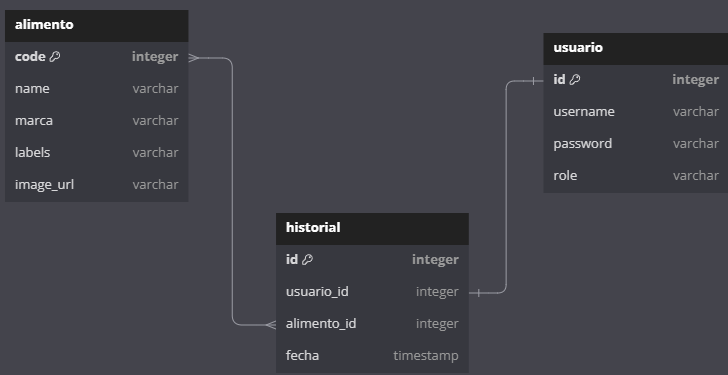
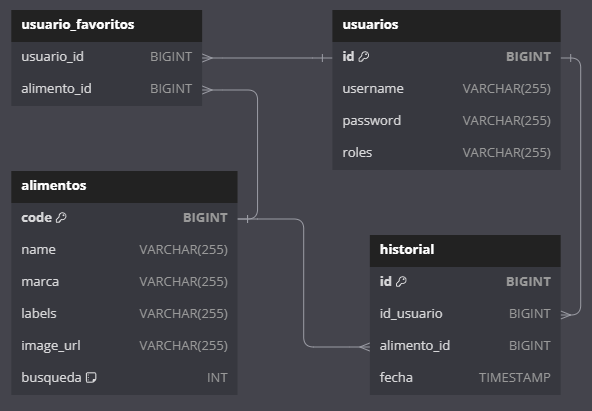
errores y cambios realizados, ahora si para entregar

diff --git a/src/main/kotlin/com/example/proyectoAPISegura/service/AlimentoService.kt b/src/main/kotlin/com/example/proyectoAPISegura/service/AlimentoService.kt
@@ -43,7 +43,7 @@ class AlimentoService {
     }
 
     fun insertAlimento(alimento: Alimento):Optional<Alimento> {
-        if (alimento.name.isBlank() && alimento.marca.isBlank() && alimento.labels.isBlank()) {
+        if (alimento.name.isBlank() || alimento.marca.isBlank() || alimento.labels.isBlank()) {
             throw BadRequestException("El nombre, la marca y las etiquetas no pueden estar vacías")
         }
 
@@ -61,7 +61,7 @@ class AlimentoService {
             throw BadRequestException("No existe este alimento")
         }
 
-        if (alimento.name.isBlank() && alimento.marca.isBlank() && alimento.labels.isBlank()) {
+        if (alimento.name.isBlank() || alimento.marca.isBlank() || alimento.labels.isBlank()) {
             throw BadRequestException("El nombre, la marca y las etiquetas no pueden estar vacías")
         }
 

diff --git a/src/main/kotlin/com/example/proyectoAPISegura/service/UsuarioService.kt b/src/main/kotlin/com/example/proyectoAPISegura/service/UsuarioService.kt
@@ -1,6 +1,7 @@
 package com.example.proyectoAPISegura.service
 
 import com.example.proyectoAPISegura.error.exception.BadRequestException
+import com.example.proyectoAPISegura.error.exception.NotFoundException
 import com.example.proyectoAPISegura.model.Usuario
 import com.example.proyectoAPISegura.repository.UsuarioRepository
 import org.springframework.beans.factory.annotation.Autowired
@@ -54,6 +55,10 @@ class UsuarioService: UserDetailsService {
 
     @Transactional
     fun delete(nombre: String, authentication: Authentication) {
+
+        val userBd = usuarioRepository.findByUsername(nombre)
+
+        if (userBd.isEmpty) throw NotFoundException("Este usuario no existe")
 
         if(!checkUserOrAdmin(authentication, nombre)) {
             throw BadRequestException("No tienes permisos para eliminar este usuario")

diff --git a/src/main/kotlin/com/example/proyectoAPISegura/service/HistorialService.kt b/src/main/kotlin/com/example/proyectoAPISegura/service/HistorialService.kt
@@ -108,6 +108,8 @@ class HistorialService {
 
         val usuario = usuarioRepository.findByUsername(authentication.name)
 
+        if (usuario.get().historiales?.isEmpty() == true)  throw BadRequestException("No has buscado ningún alimento")
+
         usuario.get().historiales?.forEach { Hibernate.initialize(it.alimento) }
 
         return historialRepository.findTop5ByUsuarioOrderByFechaDesc(usuario.get()).map { it.alimento }

diff --git a/src/main/kotlin/com/example/proyectoAPISegura/controller/HistorialController.kt b/src/main/kotlin/com/example/proyectoAPISegura/controller/HistorialController.kt
@@ -60,9 +60,9 @@ class HistorialController {
 
         val idLong = id.toLongOrNull() ?: throw BadRequestException("El id del historial debe de ser un número")
 
-        val alimentos = historialService.delete(idLong, authentication)
+        historialService.delete(idLong, authentication)
 
-        return ResponseEntity(alimentos, HttpStatus.OK)
+        return ResponseEntity("Historial eliminado", HttpStatus.OK)
     }
 
 

diff --git a/README.md b/README.md
@@ -1,7 +1,7 @@
 # PROYECTO API REST SEGURA
 ## Aplicación de información de alimentos
 
-Para este proyecto he decido crear una aplicación para gestionar la información de alimentos, en la cual a través del
+Para este proyecto he decidido crear una aplicación para gestionar la información de alimentos, en la cual a través del
 código de barras del producto se sacará la información del producto, también se podrán agregar o eliminar productos y editarlos.
 Por ejemplo se podrán modificar las etiquetas de un producto para ponerle si es sin gluten, sin lactosa, etc.
 
@@ -14,32 +14,43 @@ Para ello he de crear varias tablas, entre ellas:
 
 
 ```roomsql
-    CREATE TABLE alimento (
-      code INTEGER PRIMARY KEY,
-      name VARCHAR(255),
-      marca VARCHAR(255),
-      labels VARCHAR(255),
-      image_url VARCHAR(255)
+    CREATE TABLE alimentos (
+    code BIGINT PRIMARY KEY,
+    name VARCHAR(255) NOT NULL,
+    marca VARCHAR(255) NOT NULL,
+    labels VARCHAR(255) NOT NULL,
+    image_url VARCHAR(255),
+    busqueda INT NOT NULL DEFAULT 0
     );
 ```
 
 ```roomsql
-    CREATE TABLE usuario (
-      id INTEGER PRIMARY KEY,
-      username VARCHAR(255),
-      password VARCHAR(255),
-      role VARCHAR(255)
+    CREATE TABLE usuarios (
+    id BIGINT PRIMARY KEY,
+    username VARCHAR(255) NOT NULL UNIQUE,
+    password VARCHAR(255) NOT NULL,
+    roles VARCHAR(255)
     );
 ```
 
 ```roomsql
     CREATE TABLE historial (
-      id INTEGER PRIMARY KEY,
-      usuario_id INTEGER,
-      alimento_id INTEGER,
-      fecha TIMESTAMP,
-      FOREIGN KEY (usuario_id) REFERENCES usuario(id),
-      FOREIGN KEY (alimento_id) REFERENCES alimento(code)
+    id BIGINT PRIMARY KEY,
+    id_usuario BIGINT,
+    alimento_id BIGINT,
+    fecha TIMESTAMP NOT NULL DEFAULT CURRENT_TIMESTAMP,
+    CONSTRAINT fk_historial_usuario FOREIGN KEY (id_usuario) REFERENCES usuarios(id) ON DELETE CASCADE,
+    CONSTRAINT fk_historial_alimento FOREIGN KEY (alimento_id) REFERENCES alimentos(code) ON DELETE CASCADE
+    );
+```
+
+```roomsql
+    CREATE TABLE usuario_favoritos (
+    usuario_id BIGINT NOT NULL,
+    alimento_id BIGINT NOT NULL,
+    CONSTRAINT pk_usuario_favoritos PRIMARY KEY (usuario_id, alimento_id),
+    CONSTRAINT fk_usuario_favoritos_usuario FOREIGN KEY (usuario_id) REFERENCES usuarios(id) ON DELETE CASCADE,
+    CONSTRAINT fk_usuario_favoritos_alimento FOREIGN KEY (alimento_id) REFERENCES alimentos(code) ON DELETE CASCADE
     );
 ```
 
@@ -52,7 +63,7 @@ Para este proyecto voy a desarrollar varios endpoints por cada tabla:
  
 ### AlimentoController ("/alimentos")
 
-- GetMapping -> "/informacion/{code}" : En este endpoint el usuario indicará por la path el codigo de un alimento y este
+- GetMapping -> "/informacion/{code}" : En este endpoint el usuario indicará por la path el código de un alimento y este
 le devolverá la información del alimento.
   - Si el código que introduce el usuario no es un número dará un error 400
   - En caso de no haber ningún alimento con ese código saltará el error 404 indicando el error.
@@ -62,19 +73,19 @@ le devolverá la información del alimento.
 - GetMapping -> "/top" : Este endpoint se va a encargar de mostrar los alimentos mas buscados en orden para saber que producto
 está de moda.
     - Si no se ha buscado ningún alimento este saltará un error 400 indicando el error.
-    - El caso contrario mostrará una lista con los top 5 alimentos mas buscados en la aplicación.
+    - En caso contrario mostrará una lista con los top 5 alimentos más buscados en la aplicación.
 
 
-- PostMapping -> "/insert" : Desde aqui cualquier usuario autorizado puede agregar un alimento que no exista en la base 
+- PostMapping -> "/insert" : Desde aquí cualquier usuario autorizado puede agregar un alimento que no exista en la base 
 de datos, comprobando que los alimentos no tengan campos vacíos o incorrectos.
-  - Si el alimento que se intenta insertar tiene campos importantes vaciós saltará una excepción con el código 400.
-  - Si todo está correcto entoces se insertará el producto y mostrará un código 200.
+  - Si el alimento que se intenta insertar tiene campos importantes vacíos saltará una excepción con el código 400.
+  - Si todo está correcto entonces se insertará el producto y mostrará un código 200.
 
 
 - PostMapping -> "/actualizar" : Los usuarios autorizados podrán actualizar los alimentos que ya existan en la base de datos
 comprobando nuevamente que los campos sean correctos.
   - Si el código que introduce el usuario no es un número dará un error 400
-  - Si los campos importante están vacíos saltará un 400.
+  - Si los campos importantes están vacíos saltará un 400.
   - Si todo está correcto se actualizará y mostrará un 201
 
 
@@ -87,11 +98,11 @@ evitando así que cualquier usuario pueda borrarlo todo.
 
 ### UsuarioController ("/usuarios")
 
-- PostMapping -> "/register" : Permite a cualquier usuario sin autorizar acceder y registrarse, deverá tener bien los datos 
+- PostMapping -> "/register" : Permite a cualquier usuario sin autorizar acceder y registrarse, deberá tener bien los datos 
 antes de registrarse y podrá entrar a los demás endpoints con esa autorización.
-  - Si el usuario ya existe saltará un error con el códgio 400
-  - Si los campos importantes del usuario están mal saltará el codigo 400
-  - Si todo está bien saltará el codigo 201
+  - Si el usuario ya existe saltará un error con el código 400
+  - Si los campos importantes del usuario están mal saltará el código 400
+  - Si todo está bien saltará el código 201
 
 
 - PostMapping -> "/login" : El login permite a los usuarios guardados en la base de datos autorizarse con sus credenciales
@@ -106,7 +117,7 @@ usuario registrado.
   - Si no saldrá el código 200
 
 
-### HistoriaController ("/historial")
+### HistorialController ("/historial")
 
 - GetMapping -> "/mostrar/{nombre}" : Muestra el historial de las búsquedas realizadas por el usuario que está autorizado.
   - Si el usuario no existe saldrá un 400.
@@ -114,7 +125,7 @@ usuario registrado.
   - Si todo va bien saldrá un 200.
 
 
-- GetMapping -> "/fecha/{fecha}" : Permite buscar por fecha los historiales de busquedas que ha realizado el usuario la 
+- GetMapping -> "/fecha/{fecha}" : Permite buscar por fecha los historiales de búsquedas que ha realizado el usuario la 
 fecha indicada.
   - Si la fecha introducida es errónea saldrá un error 400.
   - Si el usuario no existe saldrá un error 400.
@@ -127,7 +138,7 @@ fecha indicada.
 
 
 - DeleteMapping -> "/eliminar/{id}" : Permite al usuario eliminar una búsqueda de su propio historial.
-  - Si el codigo es erróneo saldrá un 400.
+  - Si el código es erróneo saldrá un 400.
   - Si el historial al que quieres acceder no está en tus historiales saldrá un 400.
   - Si todo va bien saldrá un 200.
 
@@ -135,16 +146,16 @@ fecha indicada.
 ### FavoritosController ("/historial")
 
 - PostMapping -> "/agregar/{code}" : Permite al usuario agregar un alimento a favoritos para poder ver su información sin
-tener que buscar de nuevo su códgio.
-  - Si el codigo introducido es erróneo saldrá un 400.
+tener que buscar de nuevo su código.
+  - Si el código introducido es erróneo saldrá un 400.
   - Si no se agregará y dará un 200.
 
 
 - DeleteMapping -> "/eliminar/{code}" : Le permite al usuario eliminar alimentos de su lista de favoritos.
-  - Si el codigo introducido es erróneo saldrá un 400.
+  - Si el código introducido es erróneo saldrá un 400.
   - Si no se eliminará de la lista y dará un 200.
 
 
 - GetMapping -> "/mostrar" : Muestra la lista de favoritos del usuario que lo ha buscado.
-  - Si está vacia saldrá un 400
+  - Si está vacía saldrá un 400
   - Si no mostrará la lista y dará un 200
